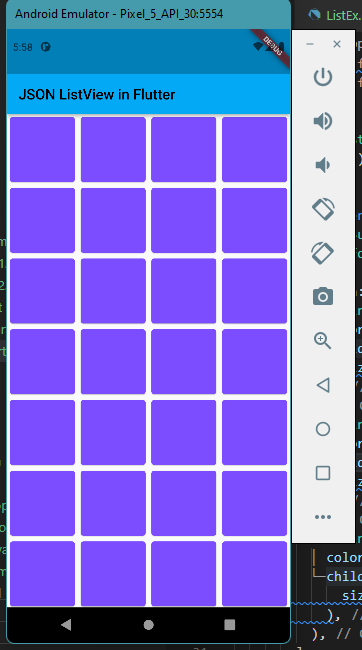
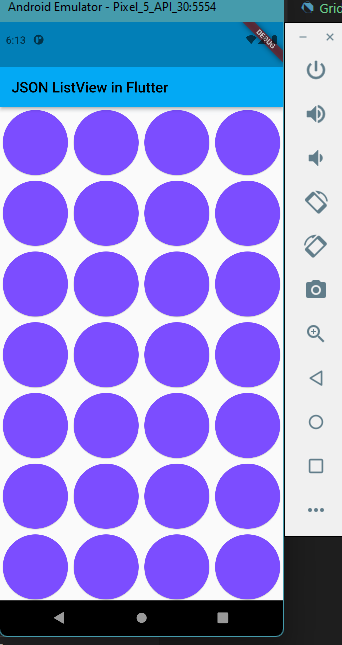
Section14

Changed region(s): [[0.0, 0.0, 1.0, 1.0], [0.5263, 0.9922, 0.5848, 1.0], [0.9357, 0.9612, 0.9649, 0.9922]]

diff --git a/14_Flutter Layout/praktikum/Grid.dart b/14_Flutter Layout/praktikum/Grid.dart
@@ -23,6 +23,8 @@ class _GridState extends State<Grid> {
           return Container(
             child: Card(
               color: Colors.deepPurpleAccent,
+              shape: RoundedRectangleBorder(
+                  borderRadius: BorderRadius.circular(100)),
             ),
           );
         }),

diff --git a/14_Flutter Layout/summary.md b/14_Flutter Layout/summary.md
@@ -1,0 +1,16 @@
+Resume : 
+
+Flutter Layout :
+    - Digunakan untuk mengatur tata letak 
+    - Layout berbentuk widget yang mengatur widget di dalamnnya
+
+Singel-child :
+    - Container
+    - Center
+    - SizedBox
+
+Multi-child :
+    - Column
+    - Row
+    - ListView
+    - GridView
